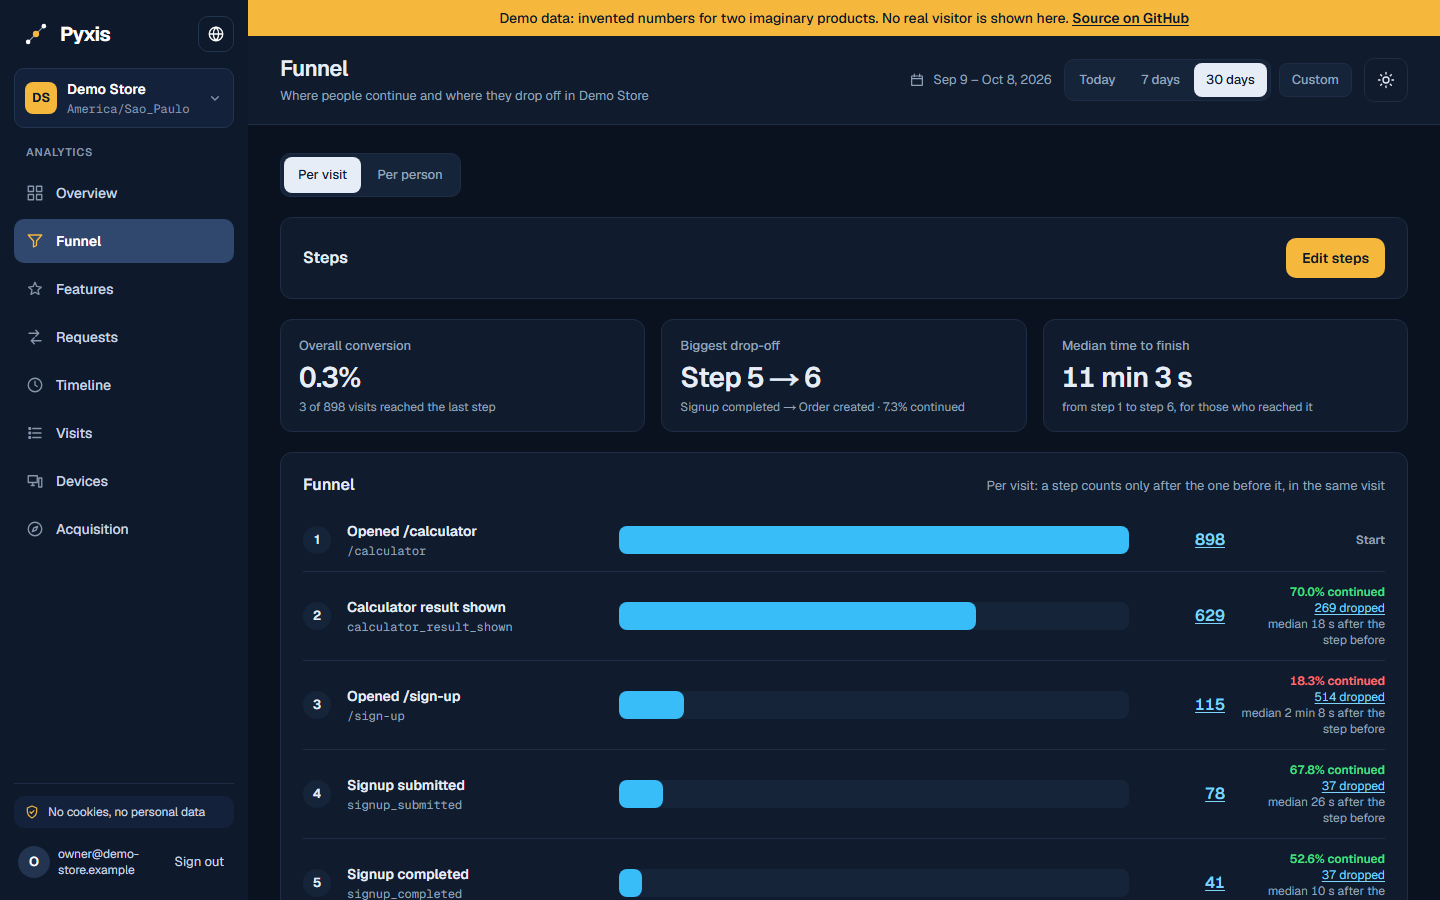
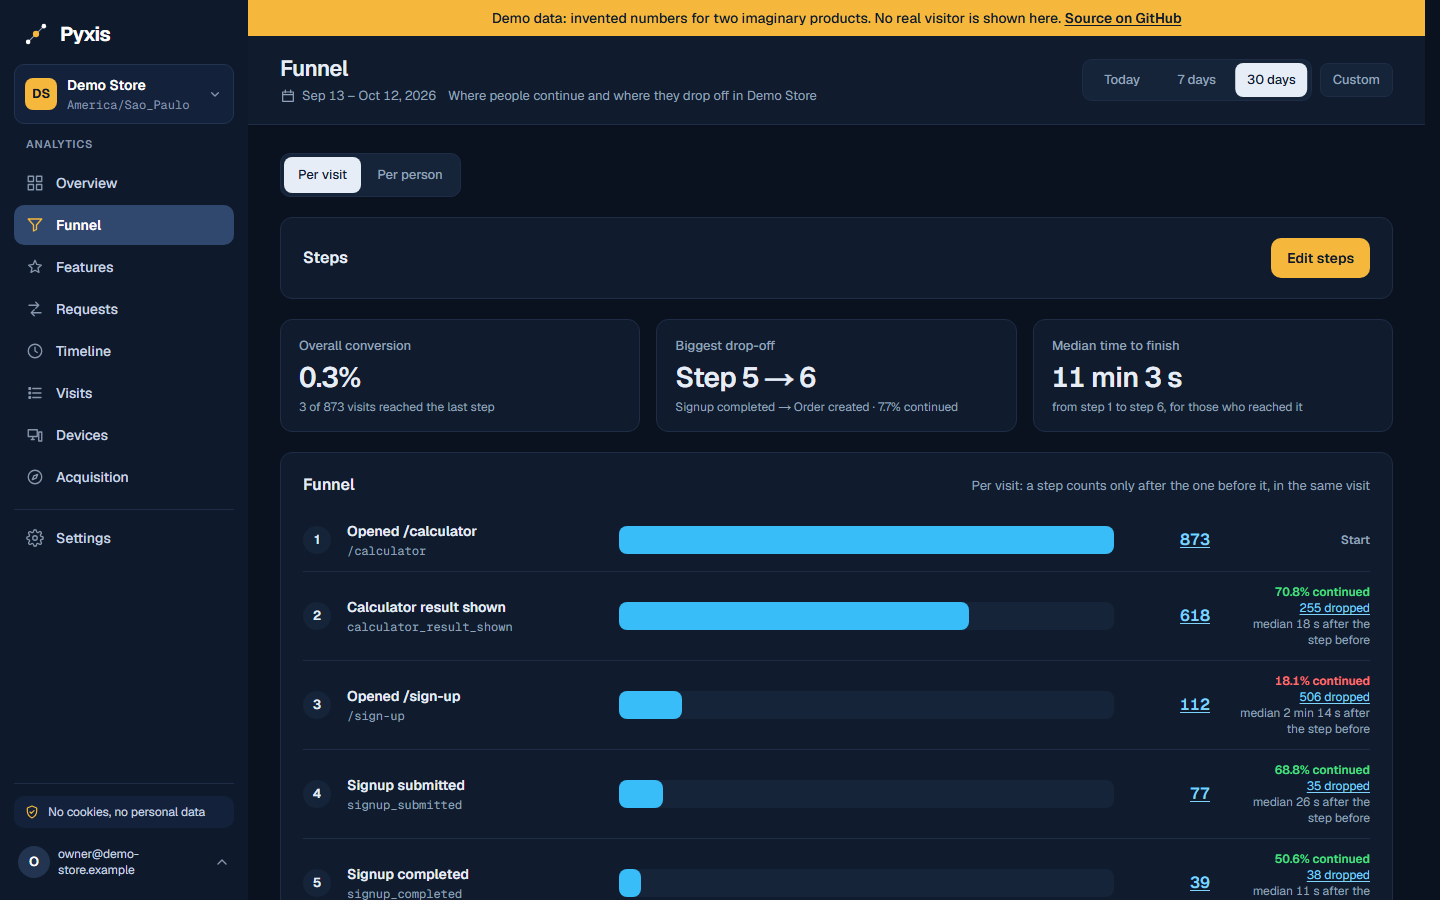
docs(readme): re-record the screenshots with the visitor's state
The timeline screenshot still labelled each visit with the country only, and
all three screenshots showed the sidebar from before the account menu. They
are recorded again from the live demo, and the timeline's alternative text
now names what each visit label carries.

diff --git a/README.md b/README.md
@@ -28,9 +28,9 @@ per-person timelines of a product, measured without cookies or personal data.**
 
 <img alt="A 17-second tour of the live demo: the overview switches from 30 to 7 days, the Visits card plots visits per day against the previous period as a dashed line, See converting visits opens the matching visits, the Requests screen shows the failures per day by status class, then the example sign-up funnel switches to the dark theme and lists the visits that left before step 3" src=".github/assets/demo-tour.gif" width="100%">
 
-| Requests, with a route's details                                                                                                                                                                                            | Funnel, dark theme                                                                                                                                                                                                                                                                                  | Timeline of one person                                                                                                                           |
-| --------------------------------------------------------------------------------------------------------------------------------------------------------------------------------------------------------------------------- | --------------------------------------------------------------------------------------------------------------------------------------------------------------------------------------------------------------------------------------------------------------------------------------------------- | ------------------------------------------------------------------------------------------------------------------------------------------------ |
-| <img alt="The Requests screen of the demo store with the details of POST /orders open: its status codes and, day by day, its calls, failures, median and p95 duration" src=".github/assets/screenshots/requests-light.png"> | <img alt="A six-step sign-up funnel in the dark theme: the overall conversion, the biggest drop-off and the median time to finish, then at each step the share that continued, the visits that dropped and the median time after the step before" src=".github/assets/screenshots/funnel-dark.png"> | <img alt="The timeline of the demo person: a failed order, its retry and the order created" src=".github/assets/screenshots/timeline-light.png"> |
+| Requests, with a route's details                                                                                                                                                                                            | Funnel, dark theme                                                                                                                                                                                                                                                                                  | Timeline of one person                                                                                                                                                                                                                           |
+| --------------------------------------------------------------------------------------------------------------------------------------------------------------------------------------------------------------------------- | --------------------------------------------------------------------------------------------------------------------------------------------------------------------------------------------------------------------------------------------------------------------------------------------------- | ------------------------------------------------------------------------------------------------------------------------------------------------------------------------------------------------------------------------------------------------ |
+| <img alt="The Requests screen of the demo store with the details of POST /orders open: its status codes and, day by day, its calls, failures, median and p95 duration" src=".github/assets/screenshots/requests-light.png"> | <img alt="A six-step sign-up funnel in the dark theme: the overall conversion, the biggest drop-off and the median time to finish, then at each step the share that continued, the visits that dropped and the median time after the step before" src=".github/assets/screenshots/funnel-dark.png"> | <img alt="The timeline of the demo person: two visits, each labelled with its device, browser, system, state and country, and in the first a failed order, its retry and the order created" src=".github/assets/screenshots/timeline-light.png"> |
 
 The tour and the screenshots show invented demo data: the dashboard runs on it when no API is
 configured. The tour was recorded from the [live demo](https://demo.pyxis-analytics.dev).
